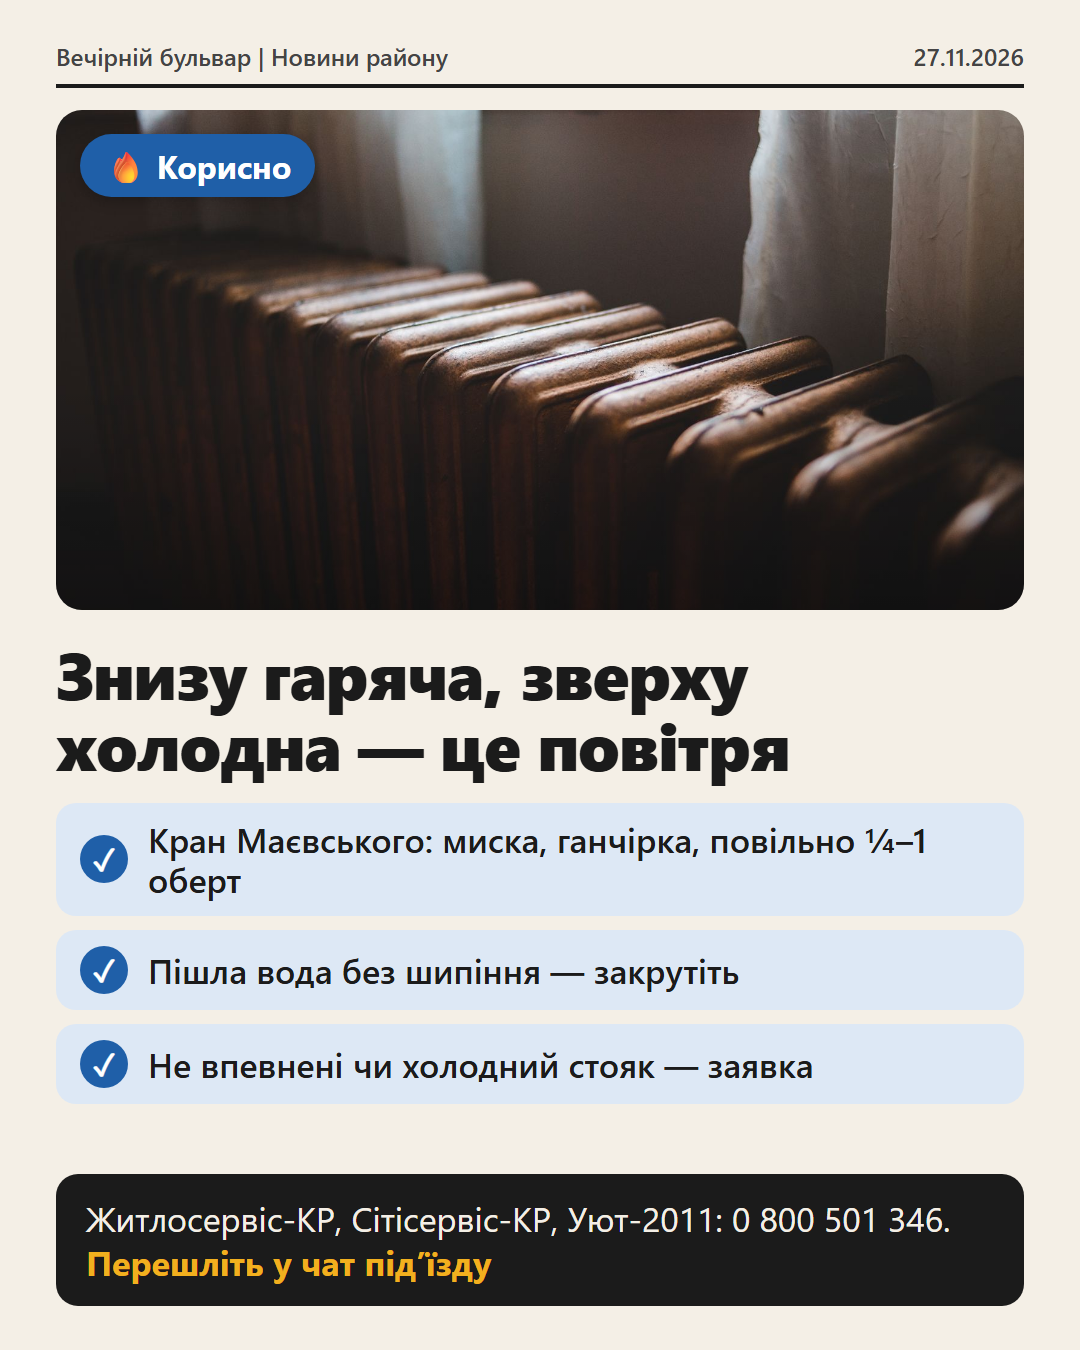
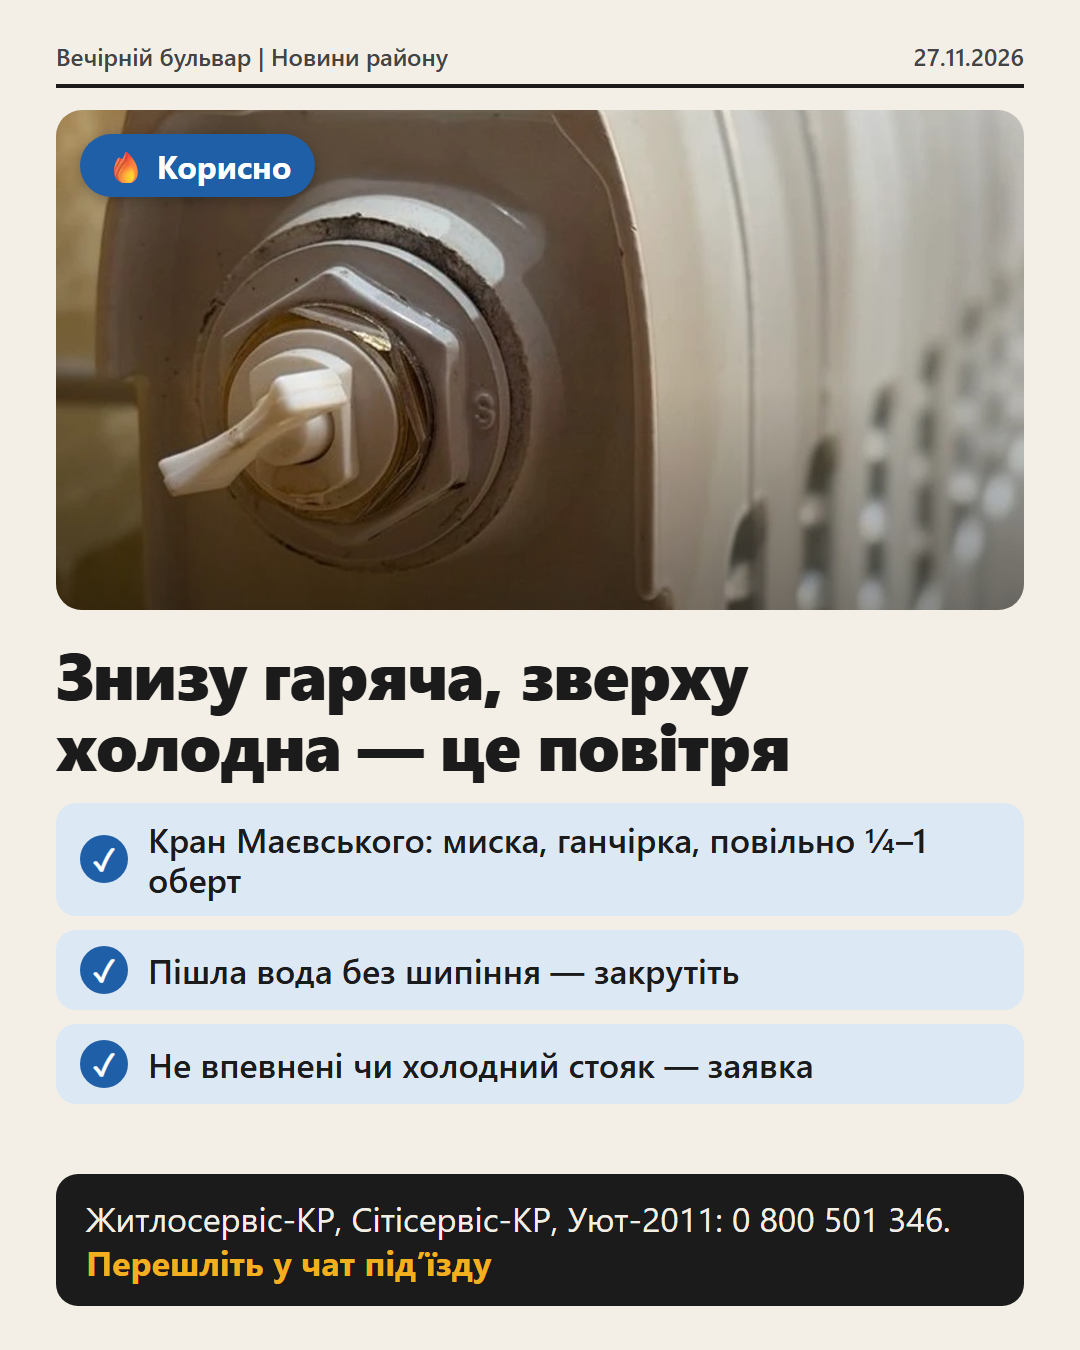
v chergu: 2026-11-27_1600_batarei-povitria

Changed region(s): [[0.0306, 0.0622, 0.9472, 0.4667]]

diff --git a/kanal/ochered/2026-11-27_1600_batarei-povitria.md b/kanal/ochered/2026-11-27_1600_batarei-povitria.md
@@ -1,7 +1,7 @@
 ---
 vremya: 2026-11-27 16:00
 tip: korysno
-status: chernovyk
+status: odobreno
 kartinka: kartinky/korysno-2026-11-27-batarei.png
 ---
 🔥 Батарея гаряча знизу, а зверху холодна — це повітря
@@ -10,7 +10,7 @@ kartinka: kartinky/korysno-2026-11-27-batarei.png
 
 Кран Маєвського (гвинтик угорі збоку батареї):
 1. Миску під кран, ганчірку навколо: вода гаряча.
-2. Ключем чи викруткою повільно — від чверті до одного оберту, не більше.
+2. Ключем, викруткою чи за пластикову ручку (як на фото) повільно — від чверті до одного оберту, не більше.
 3. Пішла вода без шипіння — закрутіть, не перетягуйте.
 
 Не впевнені, крана немає чи холодний увесь стояк — самі не крутіть, подайте заявку. Повітря в батареях верхніх поверхів увесь сезон має перевіряти обслуговуюча компанія (ЖЕК) — так у Правилах утримання будинків.
